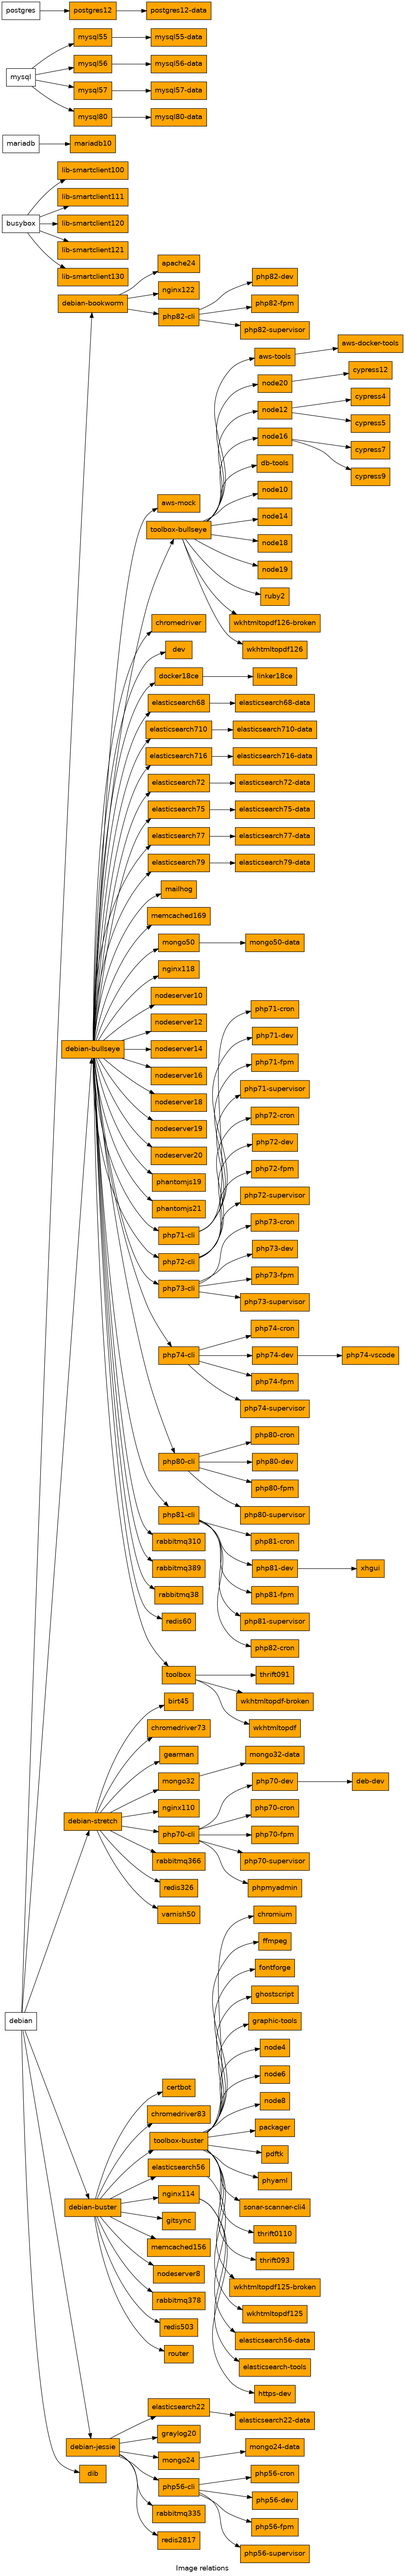
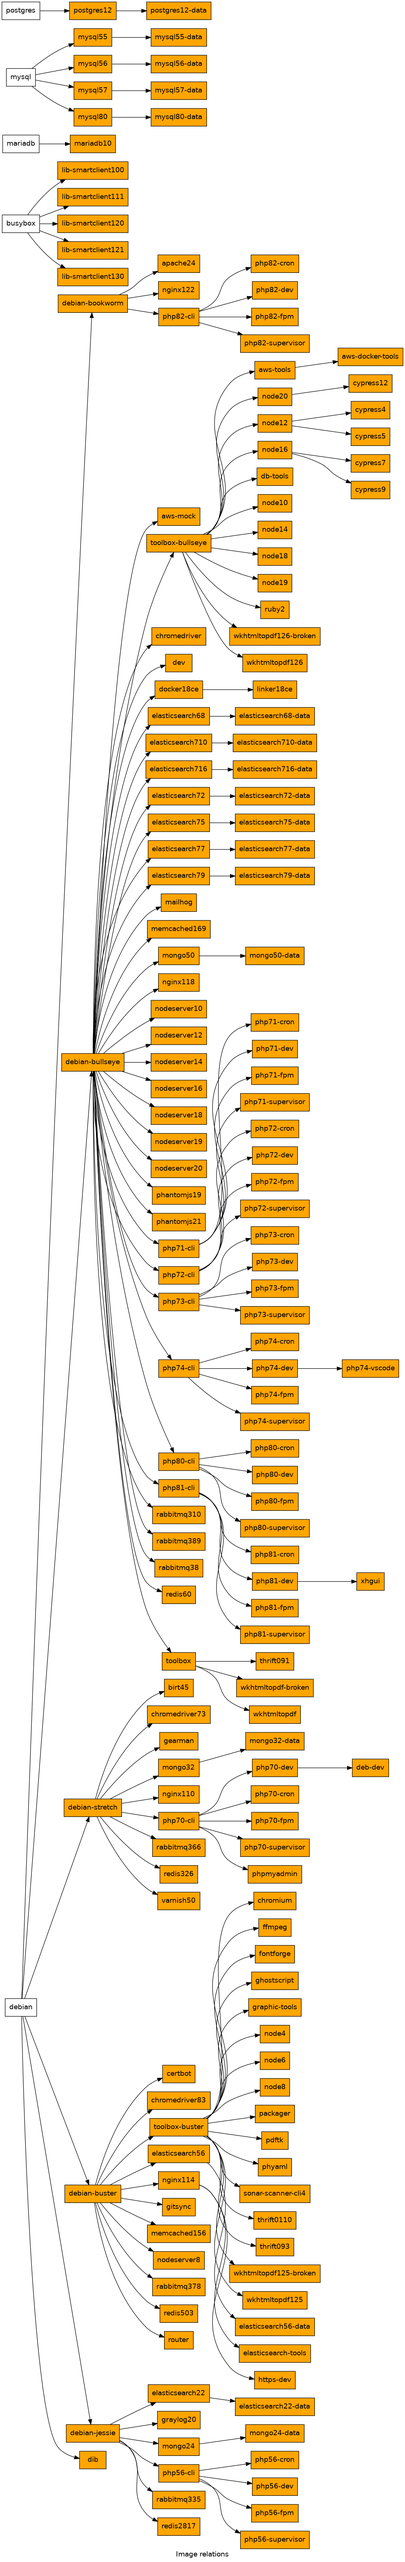
php82-xxx dependency issues fixed

diff --git a/php82-supervisor/README.md b/php82-supervisor/README.md
@@ -46,6 +46,6 @@ default value: false
 
 ## php
 
-Inherited features are described in [parent readme](../php81-cli/README.md)
+Inherited features are described in [parent readme](../php82-cli/README.md)
 
 

diff --git a/php82-cron/README.md b/php82-cron/README.md
@@ -24,6 +24,6 @@ default value: none
 
 ## php
 
-Inherited features are described in [parent readme](../php81-cli/README.md)
+Inherited features are described in [parent readme](../php82-cli/README.md)
 
 
